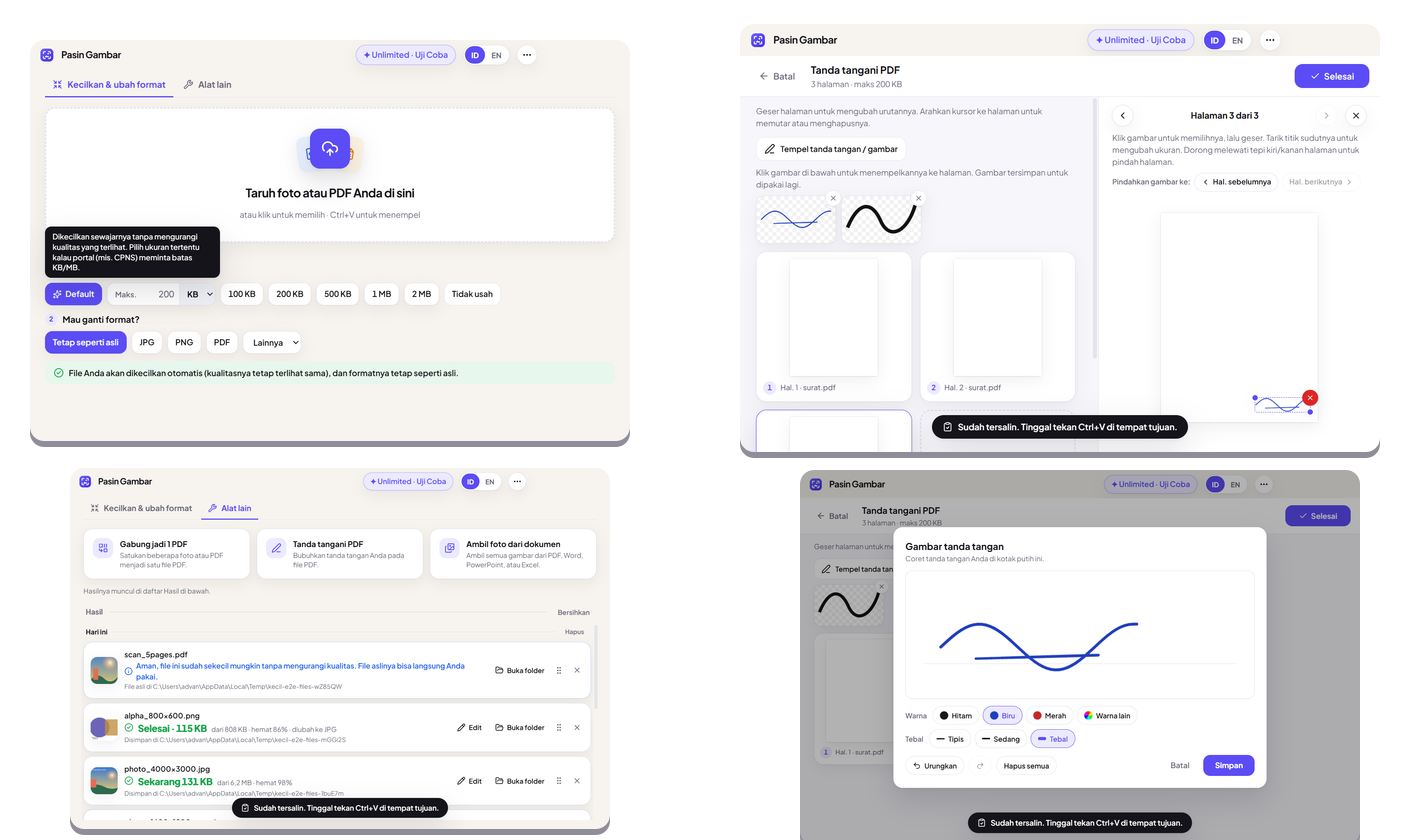
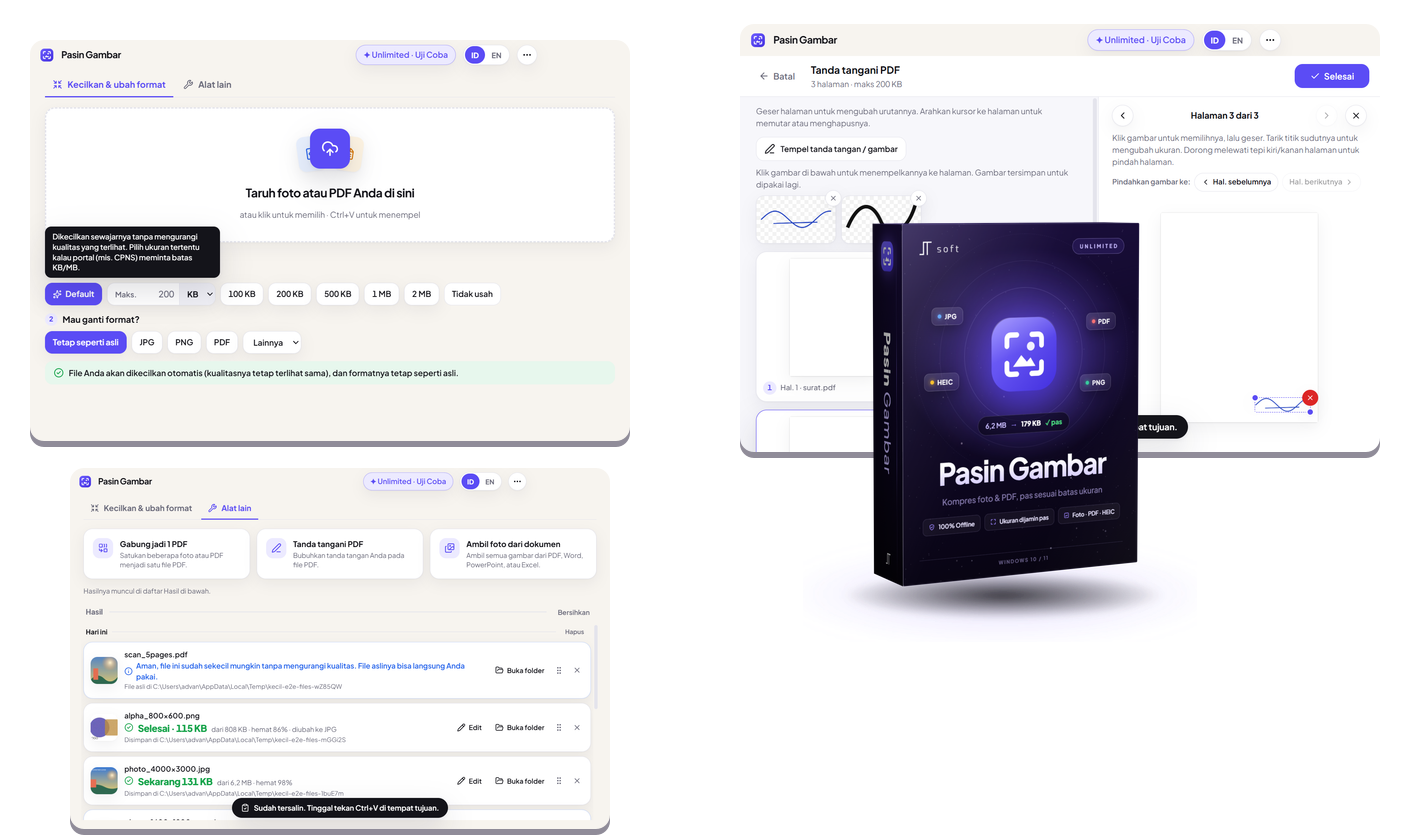
Pasin Gambar: box shot in preview, link to pasingambar.github.io

Changed region(s): [[0.5546, 0.2476, 0.9552, 1.0]]

diff --git a/index.html b/index.html
@@ -666,6 +666,8 @@
           <button
             class=" detail-btn font-speedy text-[14px] bg-[rgb(192,172,48)] hover:bg-gray-400 text-white font-semibold py-1 px-3 rounded-md  transition-colors duration-200"
             data-type="project_pasin_gambar">Details</button>
+          <a href="https://pasingambar.github.io" target="_blank" rel="noopener"
+            class="font-speedy text-[14px] bg-[rgb(123,92,255)] hover:bg-gray-400 text-white font-semibold py-1 px-3 rounded-md transition-colors duration-200 inline-block ml-1">Visit Website</a>
         </div>
       </div>
 
@@ -687,6 +689,8 @@
         <button
           class=" detail-btn font-speedy text-[14px] bg-[rgb(192,172,48)] hover:bg-gray-400 text-white font-semibold py-1 px-3 rounded-md  transition-colors duration-200"
           data-type="project_pasin_gambar">Details</button>
+          <a href="https://pasingambar.github.io" target="_blank" rel="noopener"
+            class="font-speedy text-[14px] bg-[rgb(123,92,255)] hover:bg-gray-400 text-white font-semibold py-1 px-3 rounded-md transition-colors duration-200 inline-block ml-1">Visit Website</a>
       </div>
 
       <div class="absolute top-1/2 left-1/2
@@ -1497,6 +1501,8 @@
         one PDF, signs PDFs with an attached or hand-drawn signature, extracts pictures from Office documents and edits
         images. Everything runs on the user's PC: no upload, no account, works without internet.
         </p>
+        <br>
+        <p>Website: <a href="https://pasingambar.github.io" target="_blank" rel="noopener" style="color:#c9bcff;text-decoration:underline">pasingambar.github.io</a></p>
 
         <br>
         <br>
